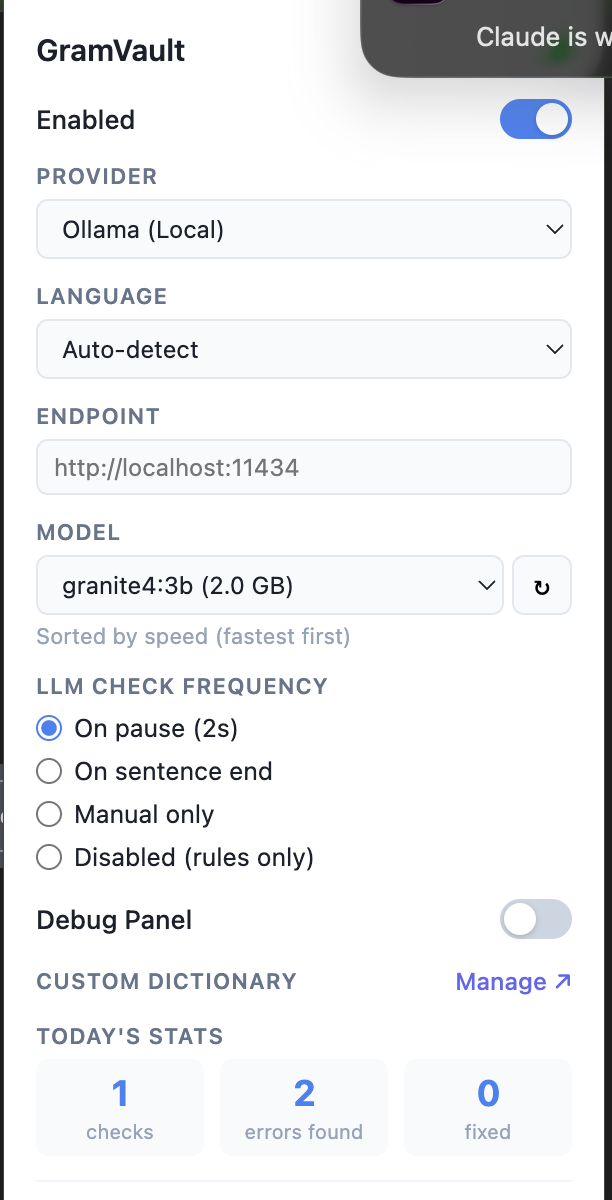
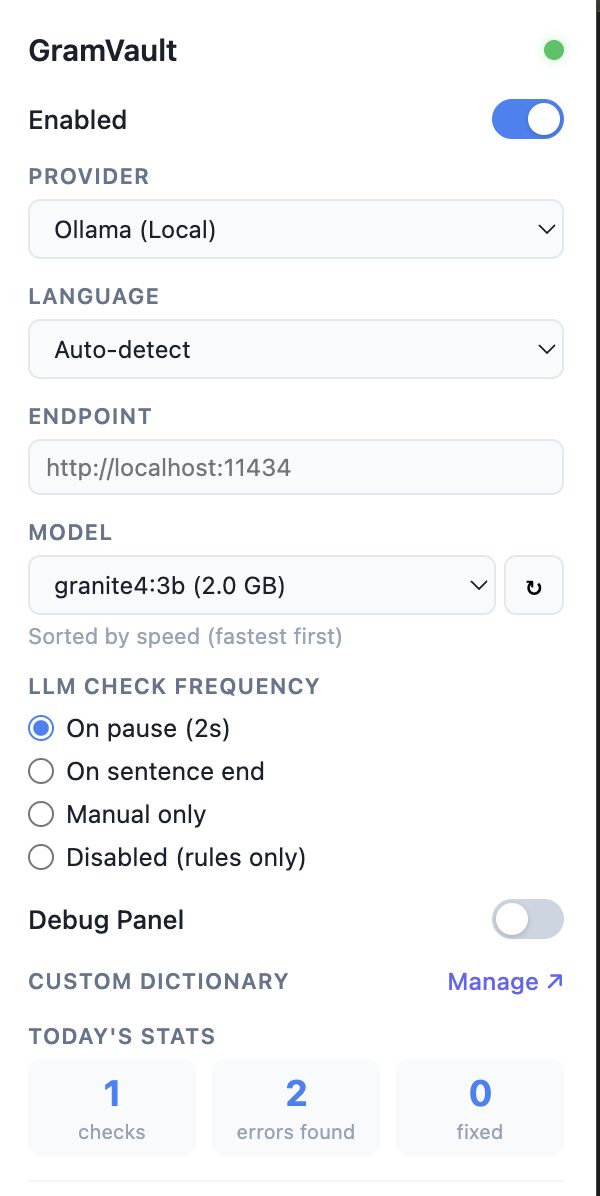
Update screenshots: new tone badge, settings, add dictionary page

diff --git a/README.md b/README.md
@@ -14,11 +14,11 @@
 <table>
   <tr>
     <td align="center"><img src="screenshots/badge-panel.png" width="420" alt="Badge panel with error fix"/><br><sub>Badge panel — inline diff with one-click fix</sub></td>
-    <td align="center"><img src="screenshots/tone-check.png" width="420" alt="Tone check result"/><br><sub>Tone check — detected tone with score</sub></td>
+    <td align="center"><img src="screenshots/tone-check.png" width="420" alt="Tone badge and popup"/><br><sub>Auto tone check — badge pill + score popup</sub></td>
   </tr>
   <tr>
-    <td align="center"><img src="screenshots/settings.png" width="320" alt="Settings popup"/><br><sub>Settings — provider, model, LLM frequency</sub></td>
-    <td align="center"><img src="screenshots/debug-panel.png" width="420" alt="Debug panel"/><br><sub>Debug panel — real-time check log</sub></td>
+    <td align="center"><img src="screenshots/settings.png" width="280" alt="Settings popup"/><br><sub>Settings — provider, model, LLM frequency</sub></td>
+    <td align="center"><img src="screenshots/dictionary.png" width="420" alt="Custom dictionary"/><br><sub>Custom dictionary — add words to ignore</sub></td>
   </tr>
 </table>
 
